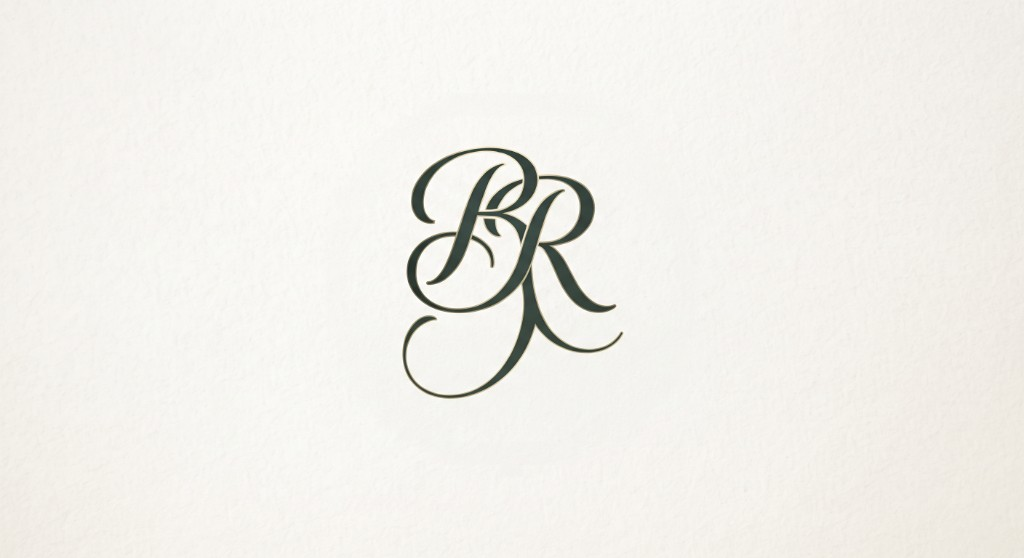
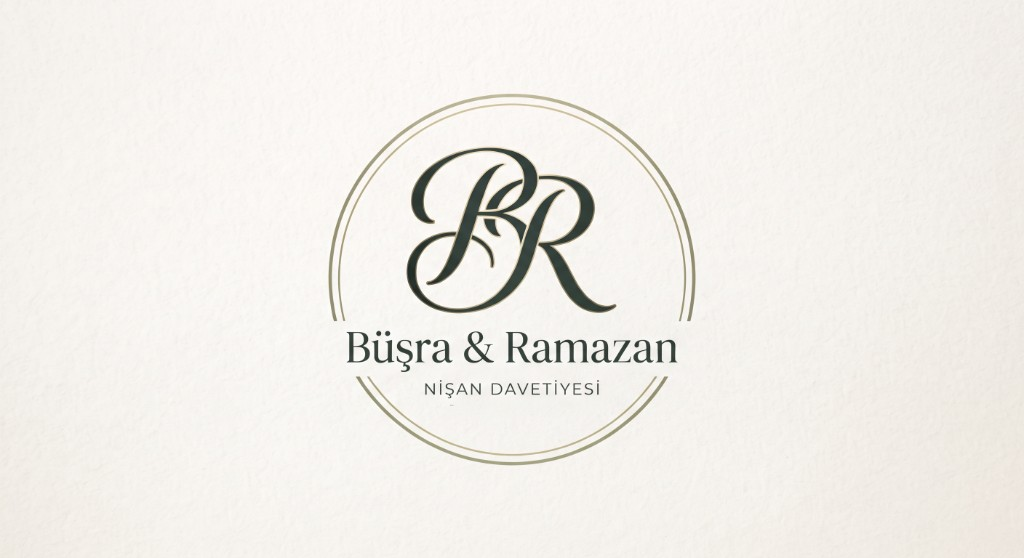
Paylaşım ve site ikonunu yeni BR nişan logosuyla güncelle.

diff --git a/src/app/layout.tsx b/src/app/layout.tsx
@@ -35,10 +35,10 @@ export const metadata: Metadata = {
     siteName: "Büşra & Ramazan",
     images: [
       {
-        url: "/images/og-share.png",
+        url: "/images/og-share.png?v=2",
         width: 1024,
         height: 558,
-        alt: "Büşra & Ramazan",
+        alt: "Büşra & Ramazan · Nişan Davetiyesi",
       },
     ],
   },
@@ -46,7 +46,7 @@ export const metadata: Metadata = {
     card: "summary_large_image",
     title: "Büşra & Ramazan · Nişan Davetiyesi",
     description: "1 Kasım 2026 · Pembe Köşk · Şehitkamil / Gaziantep",
-    images: ["/images/og-share.png"],
+    images: ["/images/og-share.png?v=2"],
   },
   appleWebApp: {
     capable: true,
